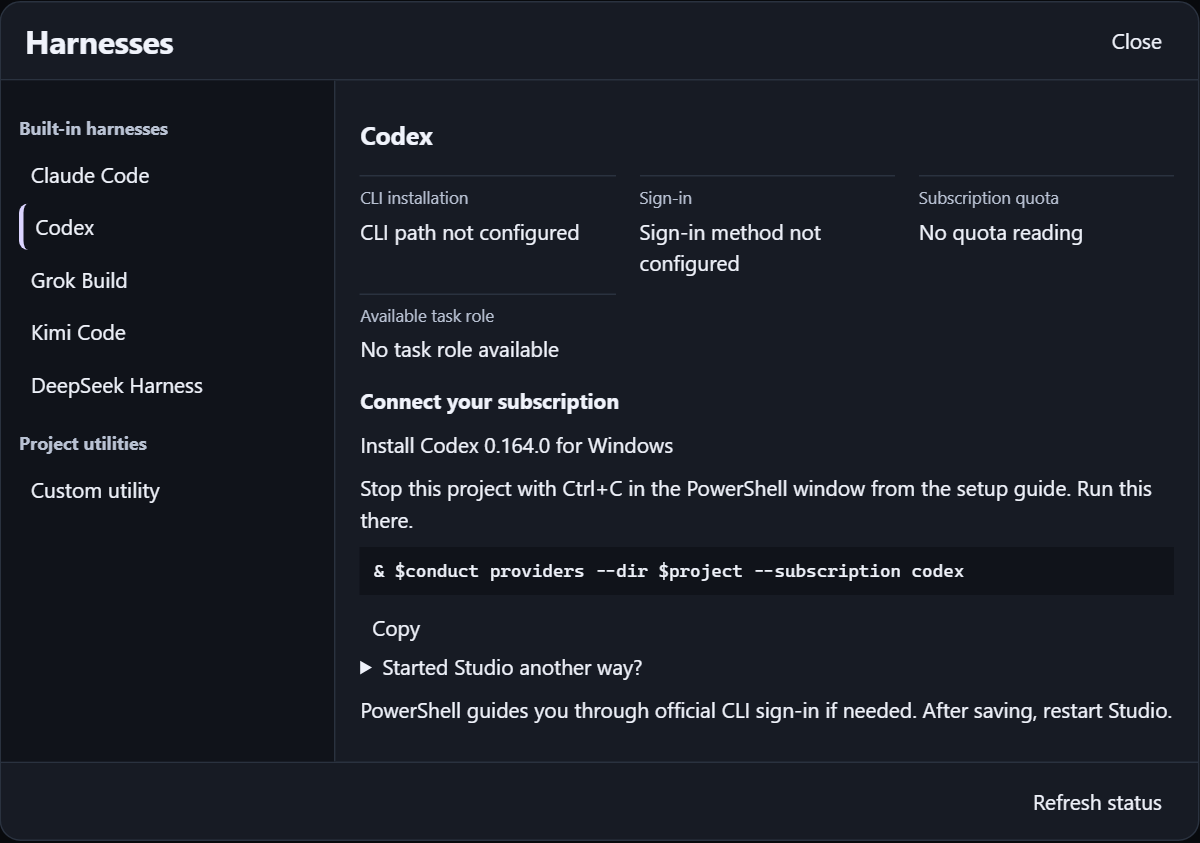
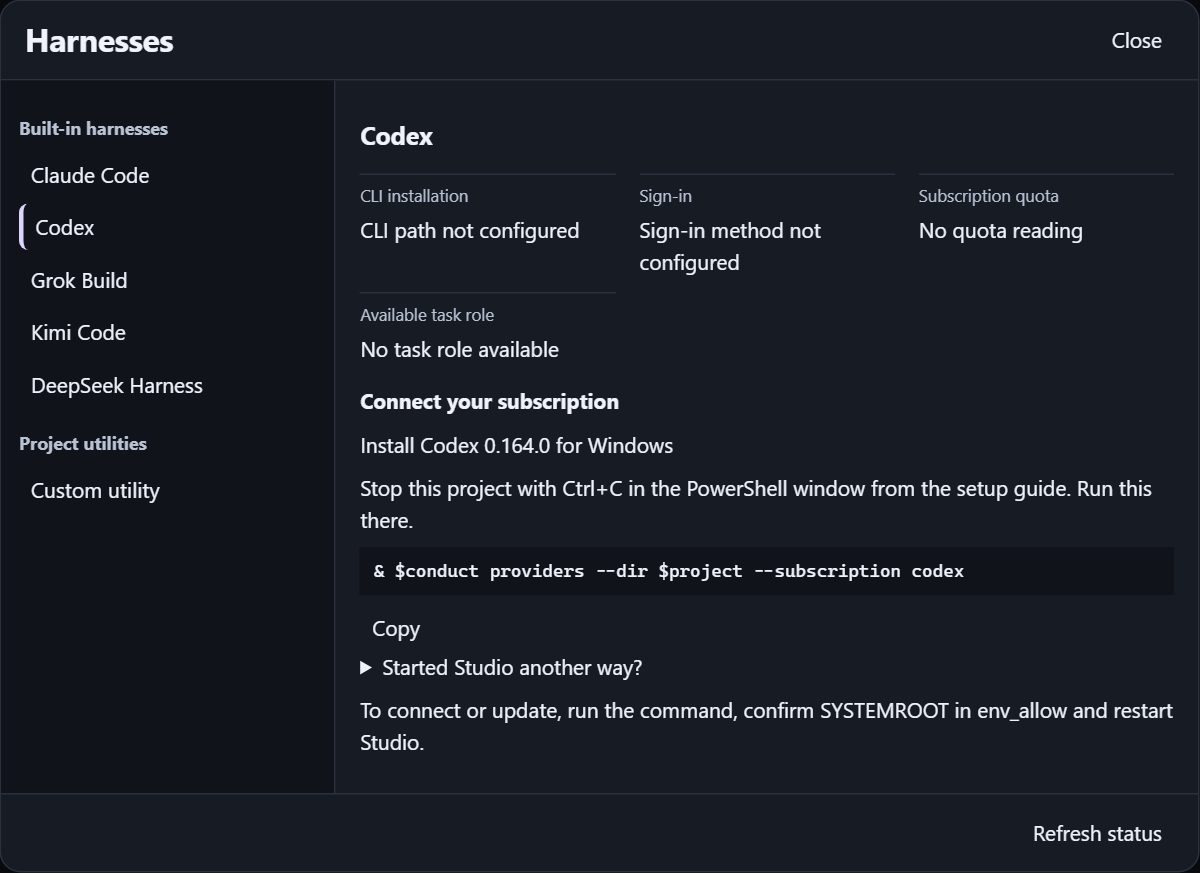
docs(studio): refresh Codex cards and current demo release links

diff --git a/demo/README.md b/demo/README.md
@@ -15,5 +15,5 @@ history above comes from the separate Studio demo builder.
 
 The Windows ZIP opens the Codex + Grok example on first launch. Run `.\START.cmd new` for a second walkthrough. You record the checks from
 a finished task, then ask Colossus to recall them for the next one. You can inspect the
-source and edit the proposed plan in chat. [Download Arachnid Studio](https://github.com/VasilyKolbenev/agent-conductor/releases/tag/v0.1.1) ·
-[Two-task instructions](https://github.com/VasilyKolbenev/agent-conductor/releases/download/v0.1.1/START-HERE.txt).
+source and edit the proposed plan in chat. [Download Arachnid Studio](https://github.com/VasilyKolbenev/agent-conductor/releases/tag/v0.1.2) ·
+[Two-task instructions](https://github.com/VasilyKolbenev/agent-conductor/releases/download/v0.1.2/START-HERE.txt).
